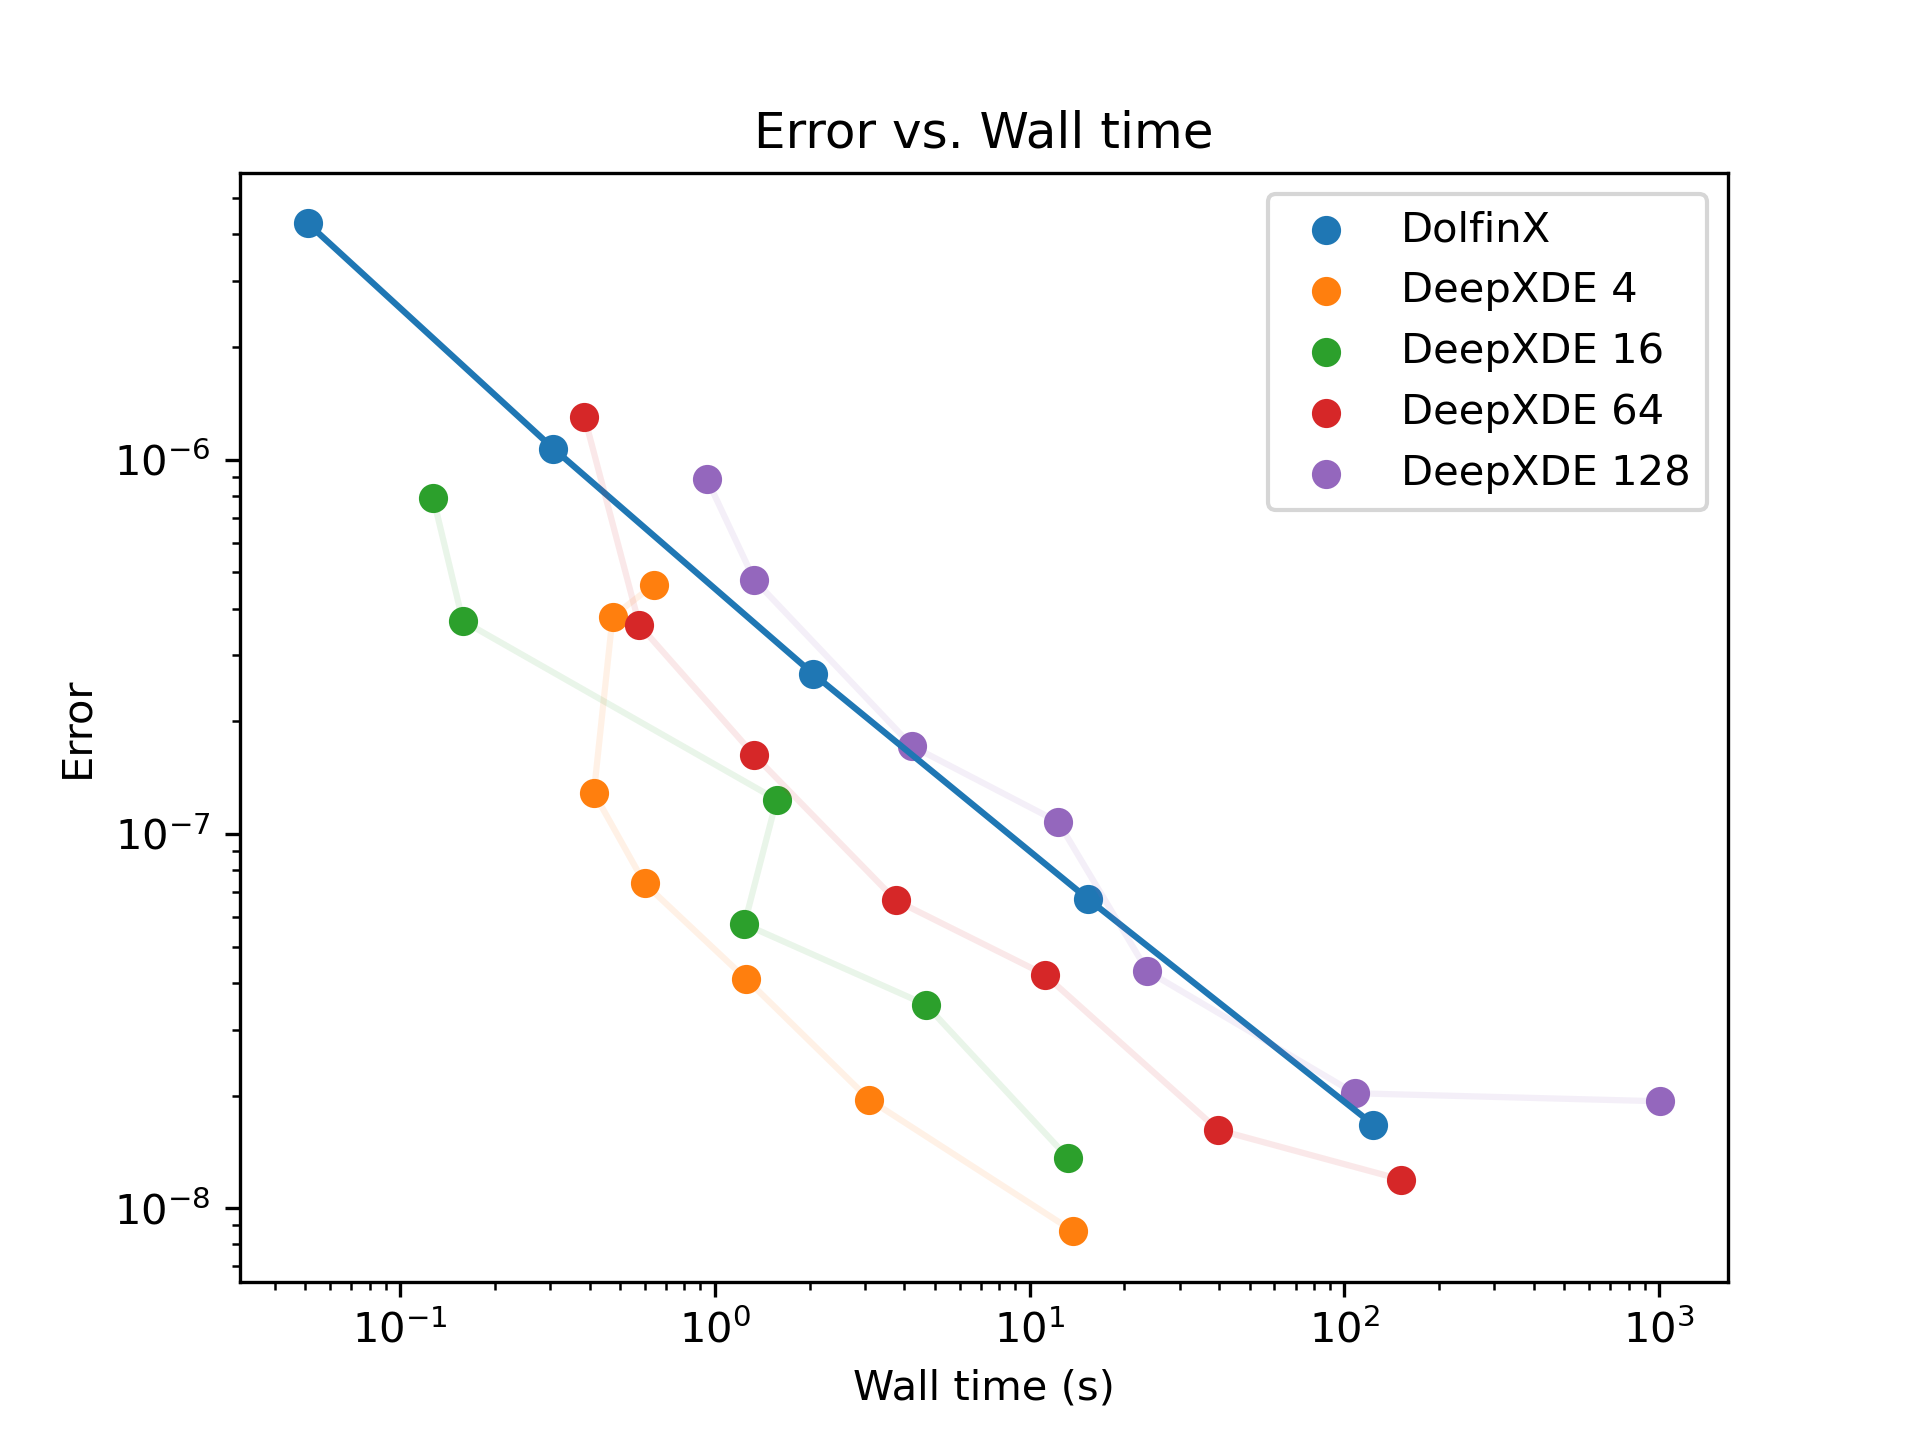
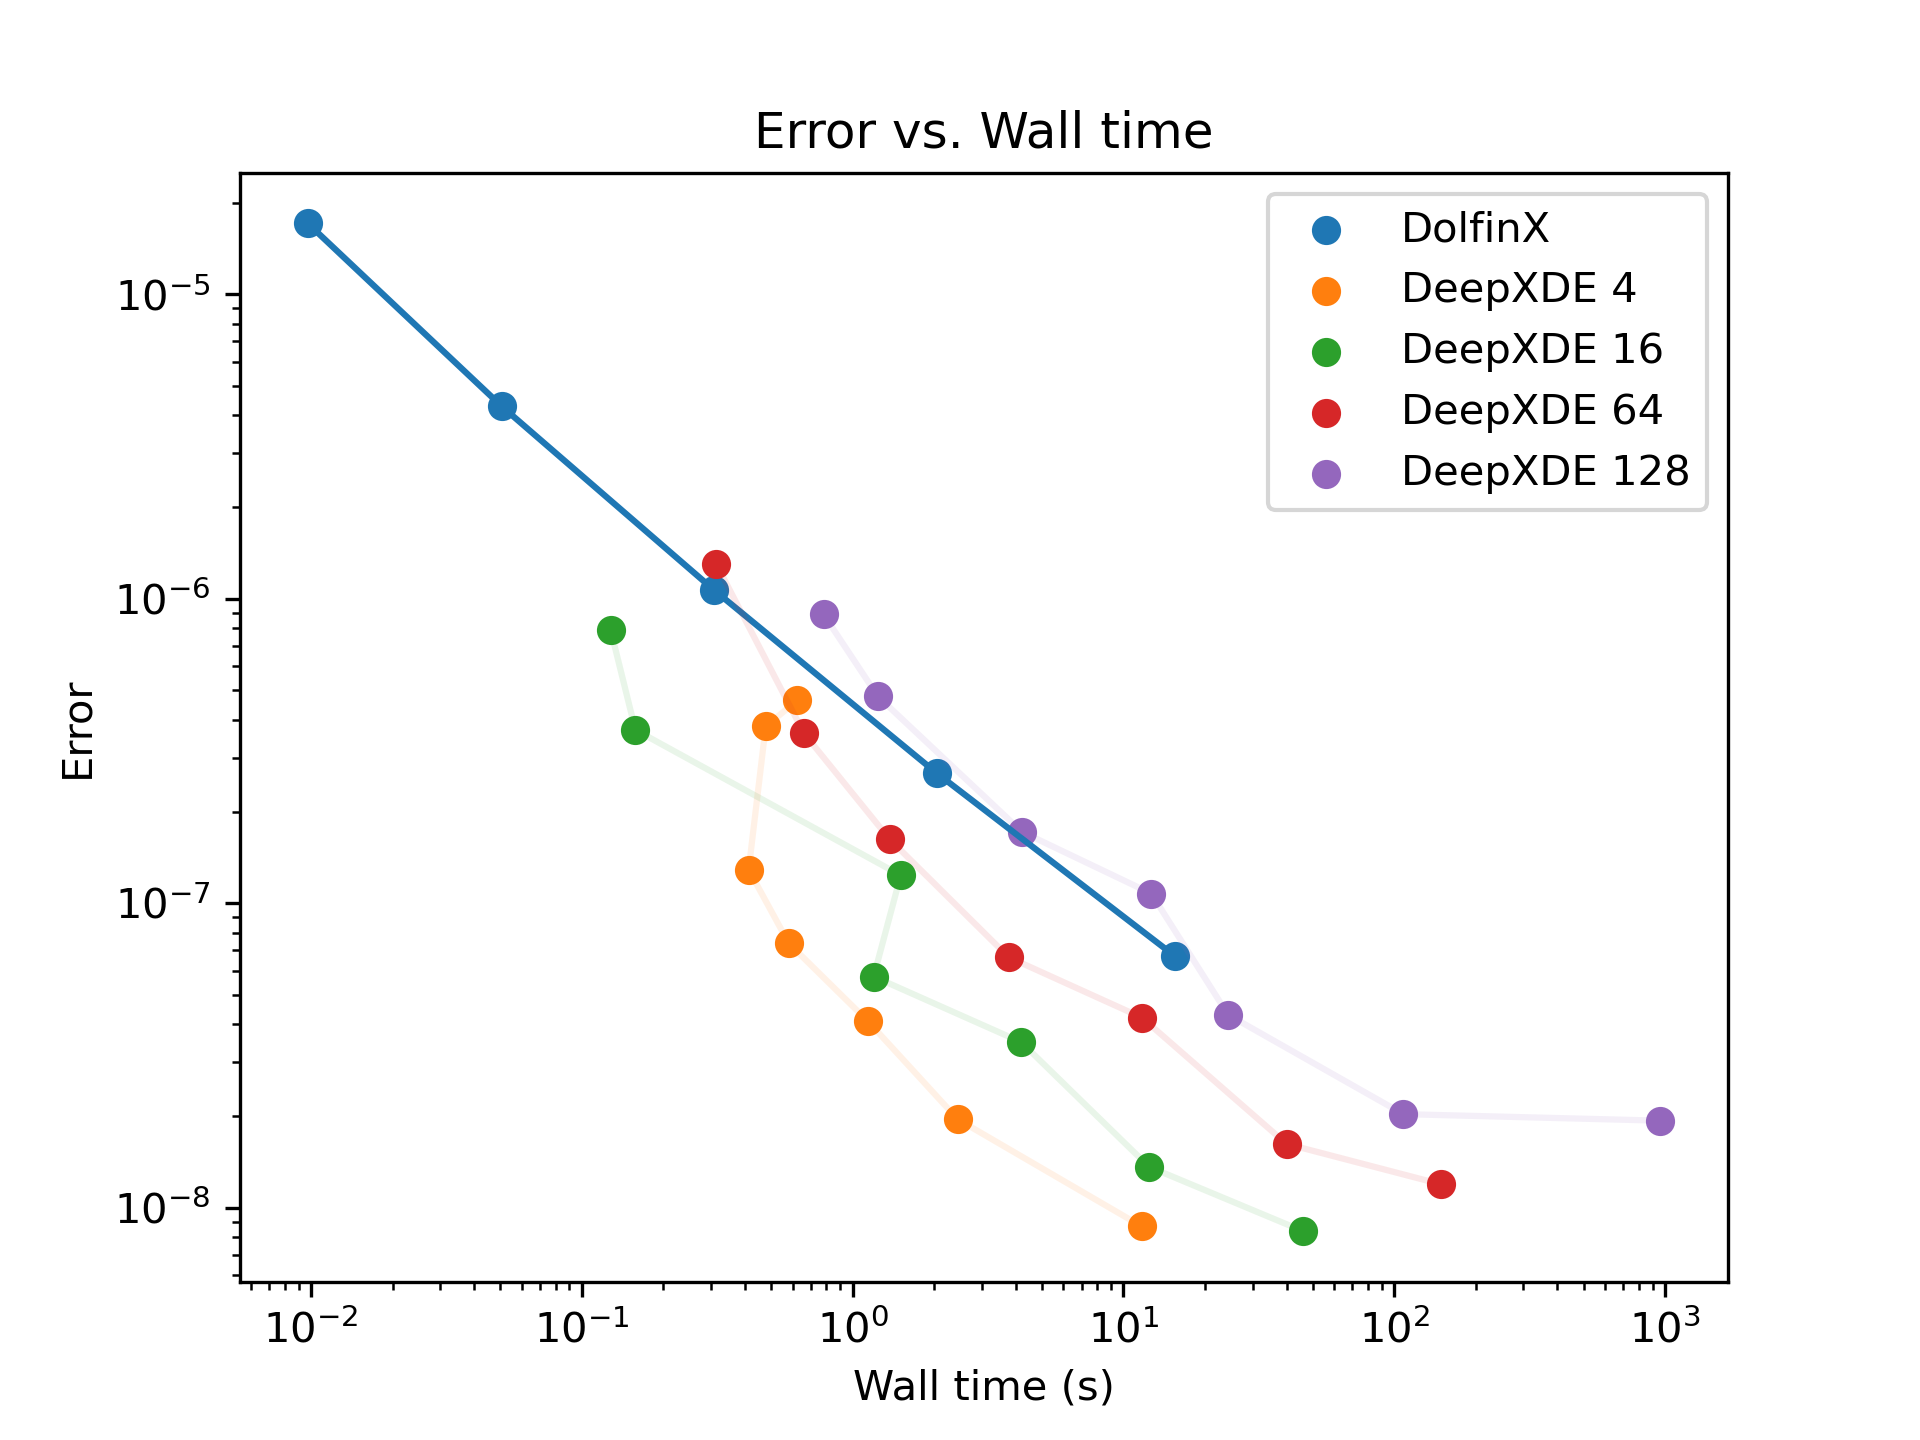
Add package files.:

diff --git a/src/pinn_benchmark/test_cases/poisson.py b/src/pinn_benchmark/test_cases/poisson.py
@@ -1,7 +1,7 @@
 import numpy as np
-from test_cases.problem import Problem
-from test_cases.domains.unitsquare import UnitSquareDomain
-from test_cases.boundary.zero import ZeroBoundaryCondition
+from pinn_benchmark.test_cases.problem import Problem
+from pinn_benchmark.test_cases.domains.unitsquare import UnitSquareDomain
+from pinn_benchmark.test_cases.boundary.zero import ZeroBoundaryCondition
 
 # Define sin and pi
 sin = np.sin
@@ -11,6 +11,7 @@ pi = np.pi
 class PoissonProblem(Problem):
     def __init__(self, backend: str):
         global sin
+        self.periods = 1
         self.backend = backend
 
         # Import math functions depending on the backend
@@ -27,7 +28,7 @@ class PoissonProblem(Problem):
         def source_term(x):
             f = 1
             for i in range(self.domain.dim):
-                f *= sin(4 * pi * x[i])
+                f *= sin(self.periods * pi * x[i])
             return f
 
         # Define the exact solution
@@ -35,8 +36,8 @@ class PoissonProblem(Problem):
             sine = ufl.sin if self.backend == 'dolfinx' else np.sin
             u = 1
             for i in range(self.domain.dim):
-                u *= sine(4 * pi * x[i])
-            u /= 2 * 16 * pi**2
+                u *= sine(self.periods * pi * x[i])
+            u /= 2 * self.periods**2 * pi**2
             return u
 
         # Initialize the parent class
@@ -60,7 +61,7 @@ class PoissonProblem(Problem):
             import deepxde as dde
             dy_xx = dde.grad.hessian(solution, x, i=0, j=0)
             dy_yy = dde.grad.hessian(solution, x, i=1, j=1)
-            f = sin(4 * pi * x[:, 0:1]) * sin(4 * pi * x[:, 1:2])
+            f = sin(self.periods * pi * x[:, 0:1]) * sin(self.periods * pi * x[:, 1:2])
             return - dy_xx - dy_yy - f
 
         else:

diff --git a/scripts/dolfinx_poisson.py b/scripts/dolfinx_poisson.py
@@ -1,11 +1,11 @@
-from test_cases.poisson import PoissonProblem
-from solvers.fem.dolfinx.solver import solve_dolfinx
+from pinn_benchmark.test_cases.poisson import PoissonProblem
+from pinn_benchmark.solvers.fem.dolfinx.solver import solve_dolfinx
 
 poisson_problem = PoissonProblem(backend='dolfinx')
 
 # Loop over the different resolutions for the DolfinX solver
 with open("output/dolfinx_poisson.txt", "w") as outfile:
-    for resolution in [128, 256, 512, 1024, 2048]:
+    for resolution in [64, 128, 256, 512, 1024]:
         print(f"Running Dolfinx with resolution of {resolution}")
         error, wall_time = solve_dolfinx(poisson_problem, resolution)
         outfile.write(f"{error}\t{wall_time}\n")

diff --git a/src/pinn_benchmark/solvers/pinn/deepxde/solver.py b/src/pinn_benchmark/solvers/pinn/deepxde/solver.py
@@ -1,4 +1,4 @@
-from test_cases.problem import Problem
+from pinn_benchmark.test_cases.problem import Problem
 from time import time
 import numpy as np
 import deepxde as dde
@@ -26,9 +26,10 @@ def solve_deepxde(problem: Problem, neurons_per_layer=10, quadrature_points=10):
     model = dde.Model(data, net)
     dde.optimizers.set_LBFGS_options(gtol=1e-5, ftol=1e-9, maxiter=100)
     model.compile("L-BFGS")
+    early_stopping = dde.callbacks.EarlyStopping(min_delta=1e-5)
 
     elapsed = -time()
-    model.train()
+    model.train(callbacks=[early_stopping])#, iterations=1_000_000)
     elapsed += time()
 
     n_error = 2*n

diff --git a/scripts/deepxde_poisson.py b/scripts/deepxde_poisson.py
@@ -1,5 +1,5 @@
-from test_cases.poisson import PoissonProblem
-from solvers.pinn.deepxde.solver import solve_deepxde
+from pinn_benchmark.test_cases.poisson import PoissonProblem
+from pinn_benchmark.solvers.pinn.deepxde.solver import solve_deepxde
 
 poisson_problem = PoissonProblem(backend='torch')
 

diff --git a/main.py b/main.py
@@ -1,5 +1,5 @@
 import os
 
-# os.system("python scripts/dolfinx_poisson.py")
-# os.system("python scripts/deepxde_poisson.py")
+os.system("python scripts/dolfinx_poisson.py")
+os.system("python scripts/deepxde_poisson.py")
 os.system("python scripts/plot_data.py")

diff --git a/src/pinn_benchmark/solvers/fem/dolfinx/solver.py b/src/pinn_benchmark/solvers/fem/dolfinx/solver.py
@@ -4,7 +4,7 @@ from time import time
 from dolfinx import fem, mesh
 from mpi4py import MPI
 from ufl import dx
-from test_cases.problem import Problem
+from pinn_benchmark.test_cases.problem import Problem
 
 
 def solve_dolfinx(problem: Problem, resolution=16):
